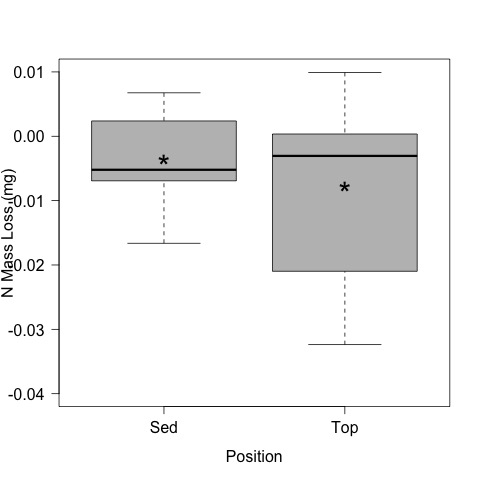
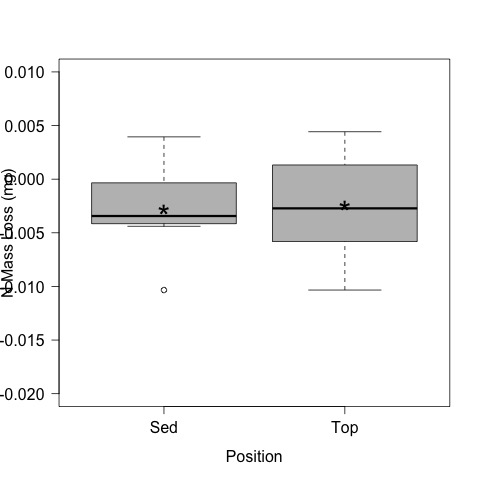
recalculated N mass loss from actual N mass not estimated from perc N

diff --git a/lab_notebook/analysis/mass_loss_analysis.md b/lab_notebook/analysis/mass_loss_analysis.md
@@ -344,26 +344,23 @@ Figure: C mass plotted against AFDM for the leaf discs
 
 ### Determination of the change in N mass in the leaves 
 
-This is done the same way as was donw with C above.
+This is done the same way as was done with C above.
 
-    disc_N_mass_final_TOP <- leaf.final$AFDM[leaf.final$Position == "Top"] * ((cn$percN[cn.position == "top"]) / 100) # convert to proportion
-    disc_N_mass_final_SED <- leaf.final$AFDM[leaf.final$Position == "Sed"] * ((cn$percN[cn.position == "sed"]) / 100)
-    disc_N_mass_final <- c(disc_N_mass_final_TOP, disc_N_mass_final_SED) * 1000 # convert to mg
+    massN_single_disc <- cn$massN / 3
 
-    tapply(disc_N_mass_final, leaf.final$Position, summary) 
-    tapply(disc_N_mass_final, leaf.final$Position, sd)
+    tapply(massN_single_disc, cn.position, summary) 
+    tapply(massN_single_disc, cn.position, sd)
 
 ~~~~
 # Estimated N mass of a single leaf disc (mg)
  
-$Sed
-   Min. 1st Qu.  Median    Mean 3rd Qu.    Max. SD
-0.02813 0.03315 0.04009 0.03848 0.04168 0.05150 0.006818064 
+$sed
+   Min. 1st Qu.  Median    Mean 3rd Qu.    Max. SD 
+0.03094 0.03558 0.03831 0.03765 0.03903 0.04522 0.003762481 
 
-$Top
+$top
    Min. 1st Qu.  Median    Mean 3rd Qu.    Max. SD
-0.02496 0.03467 0.03793 0.04256 0.05270 0.06726 0.013079830 
-
+0.03046 0.03403 0.03760 0.03727 0.04040 0.04522 0.004767817 
 ~~~~
  
 ##### Initial N mass of a single leaf 
@@ -383,7 +380,7 @@ $Top
  
 #### Change in N mass following incuabation 
  
-    delta_N_mass <- mean(disc_N_mass_init) - disc_N_mass_final
+    delta_N_mass <- mean(disc_N_mass_init) - massN_single_disc 
 
     tapply(delta_N_mass, leaf.final$Position, summary)
     tapply(delta_N_mass, leaf.final$Position, sd)
@@ -392,13 +389,12 @@ $Top
 # Loss of N mass from a single leaf disc during the incubation (mg)
 
 $Sed
-     Min.   1st Qu.    Median      Mean   3rd Qu.      Max. SD
--0.016620 -0.006802 -0.005206 -0.003605  0.001731  0.006750 0.006818064 
+      Min.    1st Qu.     Median       Mean    3rd Qu.       Max. SD  
+-0.0103400 -0.0041490 -0.0034350 -0.0027690 -0.0006983  0.0039420 0.003762481 
 
 $Top
       Min.    1st Qu.     Median       Mean    3rd Qu.       Max. SD
--0.0323800 -0.0178200 -0.0030520 -0.0076760  0.0002059  0.0099200 0.013079830
-
+-0.0103400 -0.0055170 -0.0027210 -0.0023880  0.0008486  0.0044180 0.004767817 
 ~~~~
 
 ##### Test of N Mass Loss
@@ -410,20 +406,19 @@ $Top
 Welch Two Sample t-test
 
 data:  delta_N_mass by leaf.final$Position
-t = 0.8729, df = 13.555, p-value = 0.3979
+t = -0.1983, df = 17.077, p-value = 0.8452
 alternative hypothesis: true difference in means is not equal to 0
 95 percent confidence interval:
- -0.005963507  0.014106707
+ -0.004431561  0.003670021
 sample estimates:
 mean in group Sed mean in group Top 
-     -0.003604656      -0.007676256 
-
+     -0.002768705      -0.002387934 
 ~~~~
  
 ##### Plot of N Mass Loss 
  
     par(las = 1)
-    plot(delta_N_mass ~ leaf.final$Position, ylim = c(-0.04, 0.01), ylab = "N Mass Loss (mg)", xlab = "Position", col = "grey")
+    plot(delta_N_mass ~ leaf.final$Position, ylim = c(-0.02, 0.01), ylab = "N Mass Loss (mg)", xlab = "Position", col = "grey")
     text(1, mean(delta_N_mass[leaf.final$Position == "Sed"]), "*", cex = 2)
     text(2, mean(delta_N_mass[leaf.final$Position == "Top"]), "*", cex = 2)
     dev.copy(jpeg, "./output/plots/delta_n_mass.jpg")
